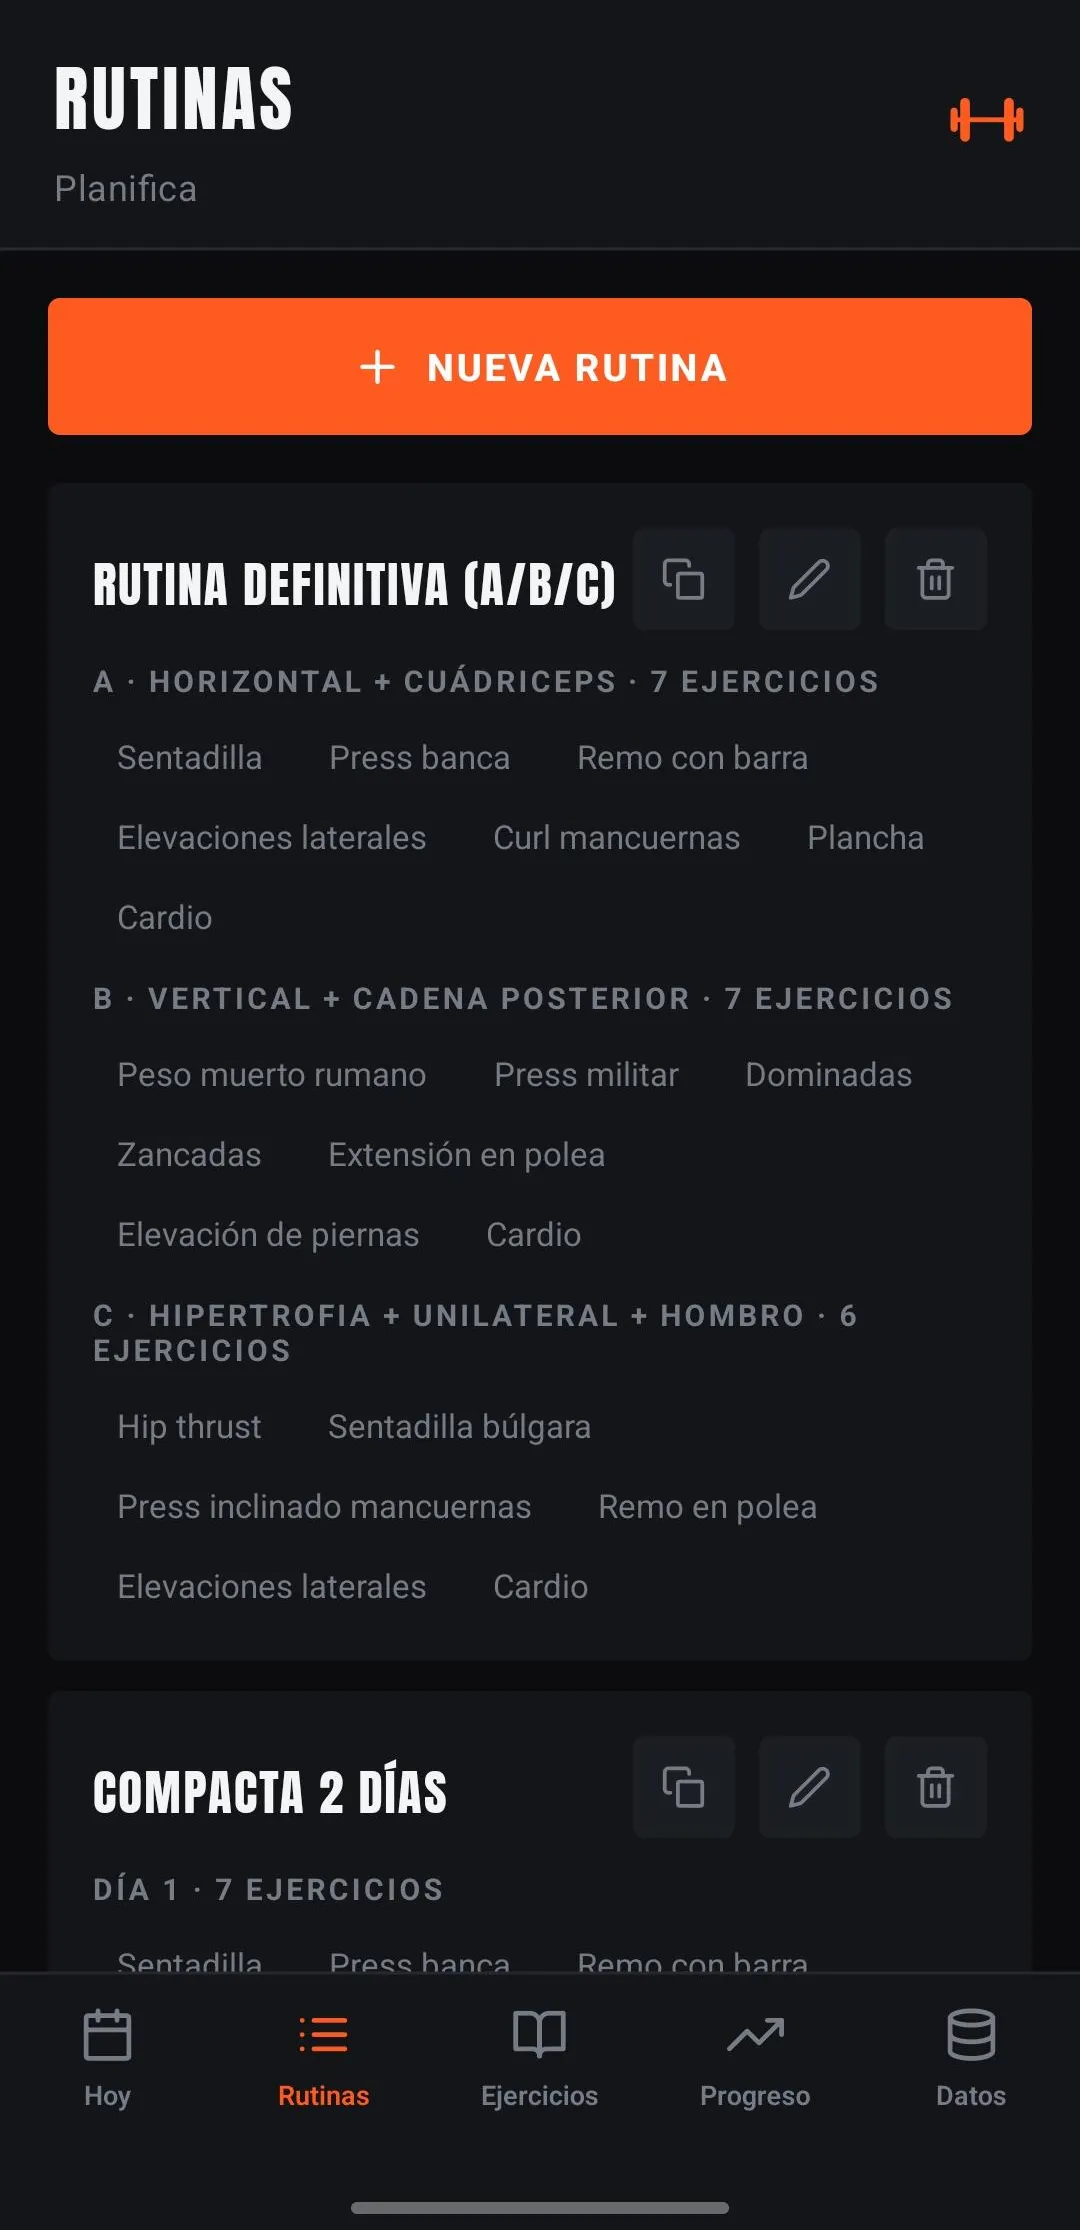
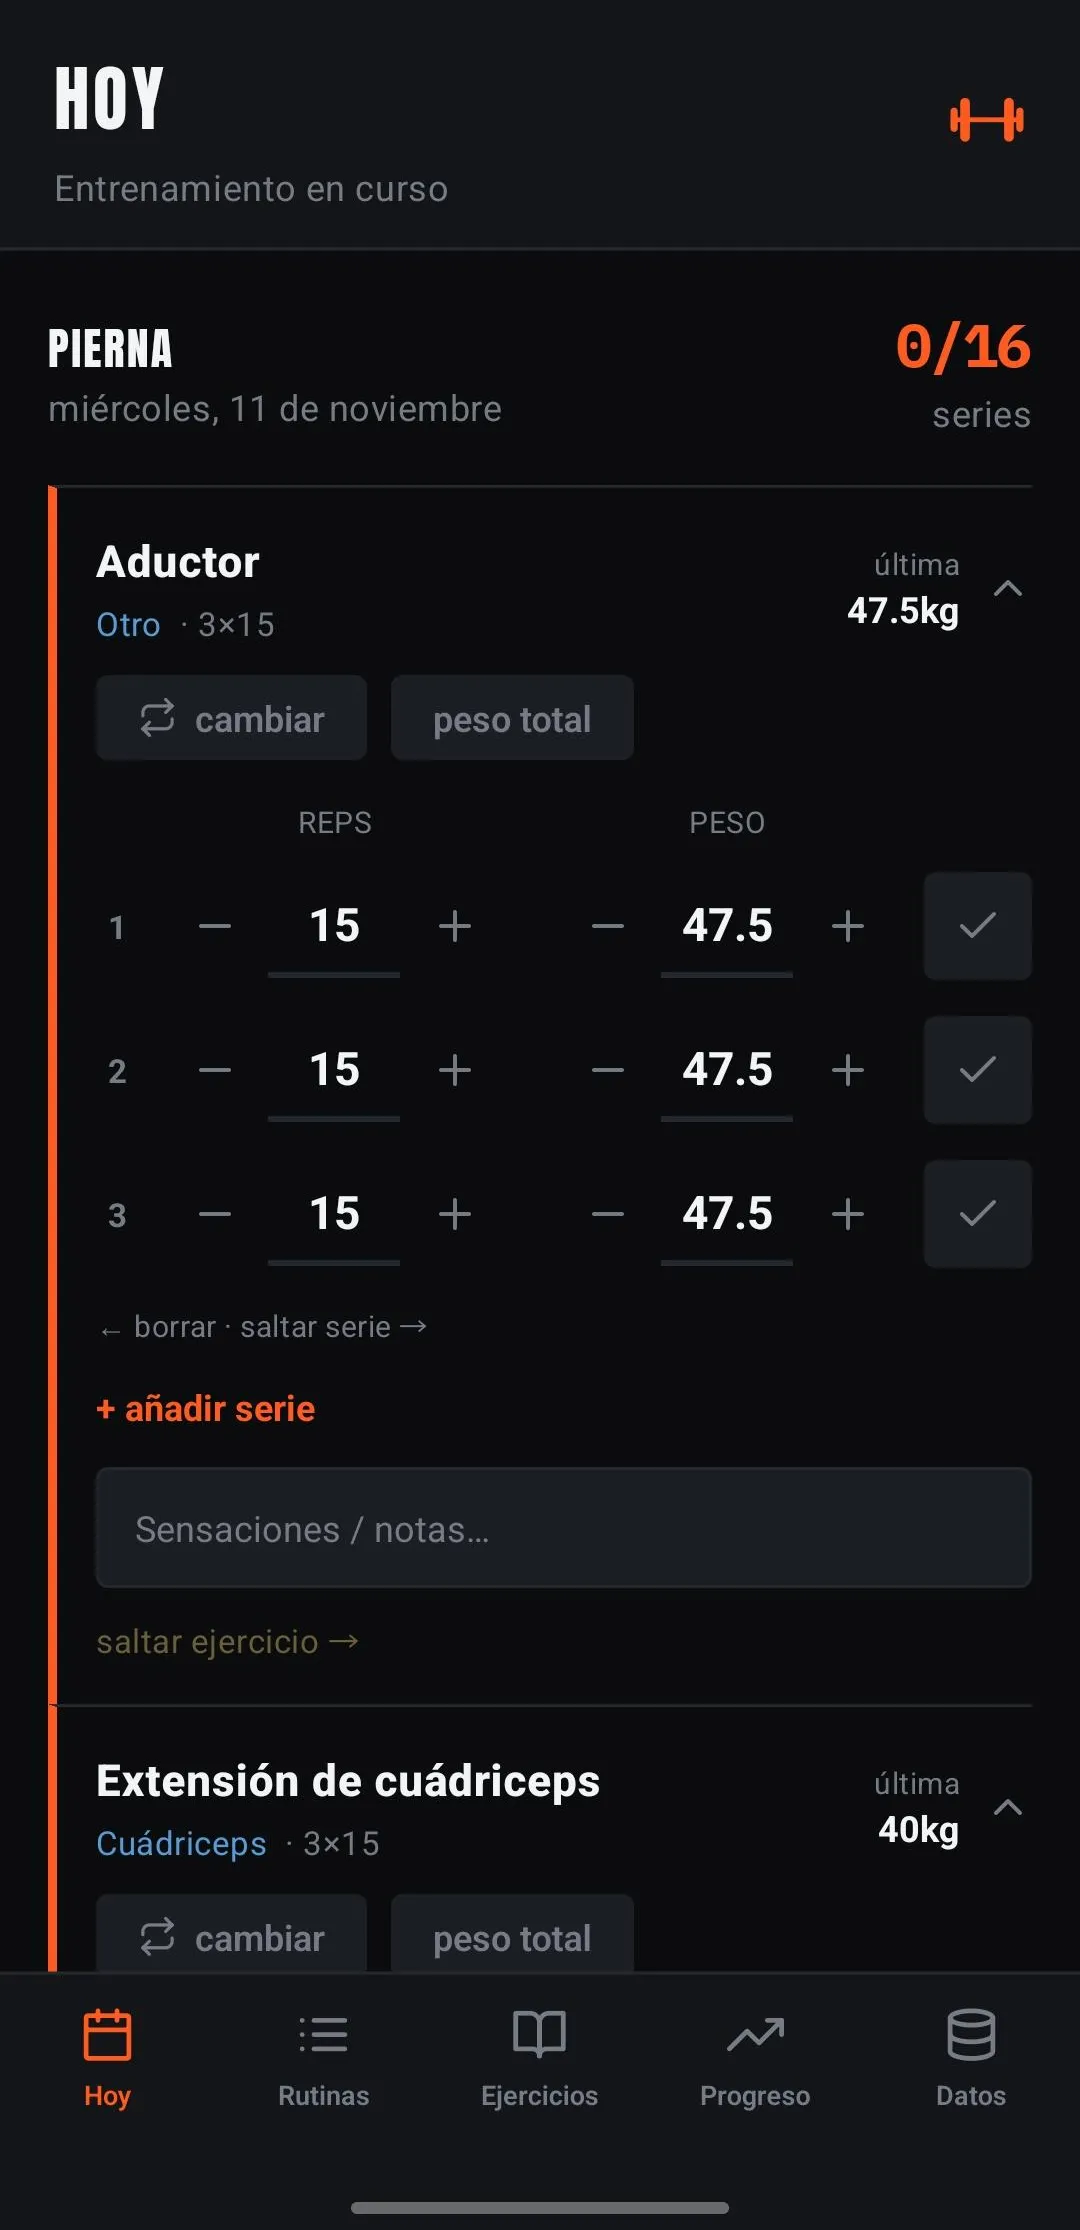
feat(blog): landscape covers for mobile apps and in-post screenshots
Phone screenshots were cropped to a thin strip in every 16:9/16:10 slot.
Compras App and IronLog now use a composed landscape cover with three
screens, and the posts show the individual screens in side-by-side pairs.
The household join code in the Compras screenshot is masked.

diff --git a/src/app/[locale]/blog/blog.scss b/src/app/[locale]/blog/blog.scss
@@ -283,9 +283,27 @@
   }
 
   img {
+    display: block;
     max-width: 100%;
+    max-height: 720px; // phone screenshots stay readable instead of filling 3 screens
+    width: auto;
     height: auto;
+    margin-inline: auto;
     border: 1px solid var(--border);
+  }
+
+  // Several images on consecutive markdown lines land in one <p>: lay them out
+  // side by side (phone screenshots in pairs).
+  p:has(> img + img) {
+    display: flex;
+    gap: 1rem;
+    align-items: flex-start;
+
+    img {
+      flex: 1 1 0;
+      min-width: 0;
+      max-height: none;
+    }
   }
 
   // GFM tables (comparisons in the guides). Block + overflow so a wide table

diff --git a/src/content/blog/como-construi-compras-app/es.md b/src/content/blog/como-construi-compras-app/es.md
@@ -13,12 +13,18 @@ En casa siempre acabábamos comprando lo mismo dos veces o llegando al súper si
 
 Una lista de la compra **compartida y en tiempo real**: si mi pareja tacha la leche desde su móvil, desaparece del mío al instante. Suena simple, pero "tiempo real" es justo donde está la chicha técnica.
 
+![Pantalla Mis Listas con las listas de la casa](/images/projects/compras-app/1.webp)
+![Lista del súper agrupada por categorías, con lo que ya está comprado tachado](/images/projects/compras-app/2.webp)
+
 ## El stack
 
 - **Front:** React Native + Expo — una sola base de código para Android, distribuida como APK.
 - **Tiempo real:** WebSockets con Socket.io. Cada cambio se emite a todos los dispositivos conectados a la misma lista.
 - **Backend:** Node.js + Express, con MongoDB Atlas para persistencia, autenticación y listas compartidas.
 - **Infra:** lo desplegué en **mi propio NAS** con Docker, Nginx como reverse proxy, SSL automático con Let's Encrypt y CI/CD con GitHub Actions + EAS Update.
+
+![Formulario para añadir un elemento con icono, categoría y cantidad](/images/projects/compras-app/3.webp)
+![Modo compra: lo que falta por meter en el carro](/images/projects/compras-app/4.webp)
 
 ## Lo que aprendí
 

diff --git a/src/content/blog/como-construi-compras-app/en.md b/src/content/blog/como-construi-compras-app/en.md
@@ -13,12 +13,18 @@ At home we always ended up buying the same thing twice or getting to the shop wi
 
 A **shared, real-time** shopping list: if my partner ticks off the milk from her phone, it disappears from mine instantly. Sounds simple, but "real time" is exactly where the technical meat is.
 
+![My Lists screen with the household's lists](/images/projects/compras-app/1.webp)
+![Shopping list grouped by category, with bought items crossed out](/images/projects/compras-app/2.webp)
+
 ## The stack
 
 - **Front:** React Native + Expo — a single codebase for Android, shipped as an APK.
 - **Real time:** WebSockets with Socket.io. Every change is broadcast to all devices connected to the same list.
 - **Backend:** Node.js + Express, with MongoDB Atlas for persistence, auth and shared lists.
 - **Infra:** deployed on **my own NAS** with Docker, Nginx as a reverse proxy, automatic SSL via Let's Encrypt and CI/CD with GitHub Actions + EAS Update.
+
+![Form to add an item with icon, category and quantity](/images/projects/compras-app/3.webp)
+![Shopping mode: what's still left to put in the cart](/images/projects/compras-app/4.webp)
 
 ## What I learned
 

diff --git a/src/content/blog/ironlog-app-de-gimnasio/es.md b/src/content/blog/ironlog-app-de-gimnasio/es.md
@@ -13,11 +13,17 @@ Probé varias apps de gimnasio y todas tenían el mismo problema: anuncios, susc
 
 Una app **rápida y offline-first**: abres, apuntas tu entreno y ves tu progreso. Sin login, sin conexión obligatoria, sin distracciones.
 
+![Entrenamiento en curso: día de pierna con series, repeticiones y peso](/images/projects/ironlog/1.webp)
+![Registro de series con el peso de la última sesión como referencia](/images/projects/ironlog/2.webp)
+
 ## El stack
 
 - **React Native + Expo** — una base de código, instalada directamente como APK en mi móvil.
 - **AsyncStorage** para persistencia local: tus datos viven en el dispositivo, no en un servidor.
 - **react-native-svg** para las gráficas de progreso.
+
+![Rutinas divididas por días con sus ejercicios](/images/projects/ironlog/3.webp)
+![Biblioteca de ejercicios agrupada por músculo](/images/projects/ironlog/4.webp)
 
 ## Por qué offline-first
 

diff --git a/src/content/blog/ironlog-app-de-gimnasio/en.md b/src/content/blog/ironlog-app-de-gimnasio/en.md
@@ -13,11 +13,17 @@ I tried several gym apps and they all had the same problem: ads, a subscription 
 
 A **fast, offline-first** app: open it, log your workout, see your progress. No login, no mandatory connection, no distractions.
 
+![Workout in progress: leg day with sets, reps and weight](/images/projects/ironlog/1.webp)
+![Logging sets with last session's weight as a reference](/images/projects/ironlog/2.webp)
+
 ## The stack
 
 - **React Native + Expo** — one codebase, installed directly as an APK on my phone.
 - **AsyncStorage** for local persistence: your data lives on the device, not on a server.
 - **react-native-svg** for the progress charts.
+
+![Routines split by day with their exercises](/images/projects/ironlog/3.webp)
+![Exercise library grouped by muscle](/images/projects/ironlog/4.webp)
 
 ## Why offline-first
 
